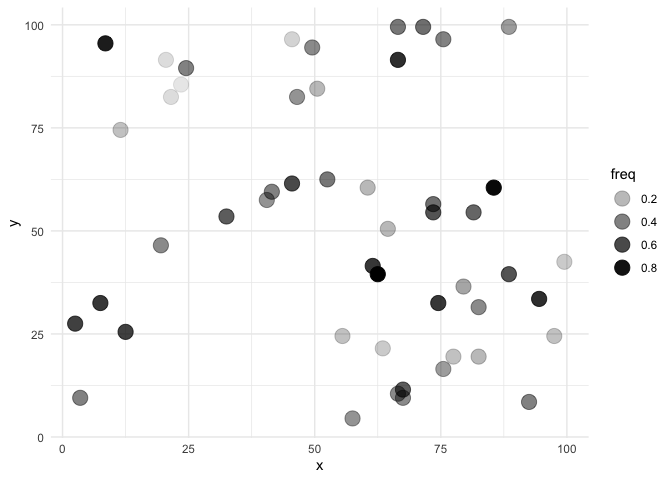
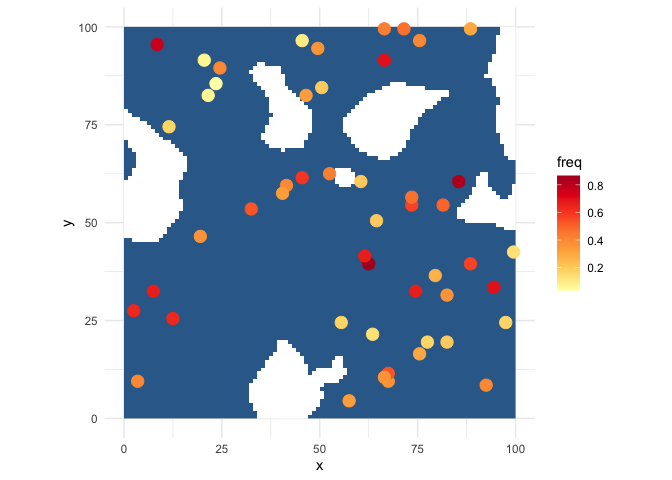
fix github mathjax issues; update plotting

diff --git a/README.md b/README.md
@@ -23,53 +23,67 @@ genetic resistance.
 The following model is used to simulate a synthetic dataset for model
 testing, and will be implemented as a Bayesian statsitical model to
 estimate parameters and predict the prevalence of resistance markers and
-phenotypes in \$P.falciparum\* parasites sampled from malaria cases.
+phenotypes in *P. falciparum* parasites sampled from malaria cases.
 
-The number of failed treatments $F_{i}$ in spatial location (pixel) $i$
-is Binomial, with number of attempted treatments $T_{i}$, and per-case
-probability (frequency) of treatment failure $P^{TF}_i$:
+The number of failed treatments $`F_{i}`$ in spatial location (pixel)
+$i$ is Binomial, with number of attempted treatments $`T_{i}`$, and
+per-case probability (frequency) of treatment failure
+$`P_i^\mathrm{TF}`$:
 
-$$
-F_{i} \sim Binomial(T_{i}, P^\text{TF}_i)
-$$ The overall probability of treatment failure is calculated from the
+``` math
+F_{i} \sim \mathrm{Binomial}(T_{i}, P_i^\mathrm{TF})
+```
+
+The overall probability of treatment failure is calculated from the
 individual (ie. conditionally-independent) probabilities of failure due
 to each of $S$ different resistance markers (SNPs) $s$, computed as the
-product of the probability of treatment failure $q^{TF}_{i,s}$ *if* SNP
-$s$ if present, multiplied by the probability (frequency)
-$P^{SNP}_{i,s}$ that SNP $s$ is present in a randomly sampled parasite
-in pixel $i$ :
+product of the probability of treatment failure $`q_{i,s}`$ if SNP $s$
+if present, multiplied by the probability (frequency)
+$`P_{i,s}^\mathrm{SNP}`$ that SNP $s$ is present in a randomly sampled
+parasite in pixel $i$ :
 
-$$
-P^\text{TF}_i = 1- \prod_{s=1}^S{1 - q^\text{TF}_{i,s} P^\text{SNP}_{i,s}}
-$$ We additionally model observations of the number of samples positive
-for each of these SNPs $\text{SNP}^{+}_{i,s}$ at each pixel $i$ via a
+``` math
+P_i^\mathrm{TF} = 1 - \prod_{s=1}^S{1 - q_{i,s} P_{i,s}^\mathrm{SNP}}
+```
+
+We additionally model observations of the number of samples positive for
+each of these SNPs $`\mathrm{SNP}_{i,s}^{+}`$ at each pixel $i$ via a
 Binomial likelihood of the number of samples tested for this SNP
-$\text{SNP}_{i,s}$ and the population frequency $P^\text{SNP}_{i,s}$ of
-the SNP in pixel $i$ : $$
-\text{SNP}^{+}_{i,s} \sim Binomial(\text{SNP}_{i,s}, P^\text{SNP}_{i,s})
-$$ The frequencies of the vector of SNPs $P^\text{SNP}_{i}$ at each
+$`\mathrm{SNP}_{i,s}`$ and the population frequency
+$`P_{i,s}^\mathrm{SNP}`$ of the SNP in pixel $i$:
+
+``` math
+\mathrm{SNP}_{i,s}^{+} \sim \mathrm{Binomial}(\mathrm{SNP}_{i,s} P_{i,s}^\mathrm{SNP})
+```
+
+The frequencies of the vector of SNPs $`P_{i}^\mathrm{SNP}`$ at each
 pixel $i$ is jointly modelled as the outcome of a random-slopes, latent
 factor model-based geostatistical model with logit link function:
 
-$$
-\text{logit}(P^\text{SNP}_{i,s}) = \mathbf{X}_i \beta_s + \sum_{l=1}^{L}\Lambda_{s,l} \epsilon_{i,l} \\
-\beta_{s,k} \sim N(\mu_k, \sigma^{2}_k)
-$$ where $\mathbf{X}$ is a design matrix of $K$ observed spatial
-covariates of SNP frequencies (including a dummy column for an intercept
-term), with the vector $\mathbf{X}_i$ representing the covariates values
-at location (pixel) $i$, and $\beta_s$ is corresponding vector of $K$
+``` math
+\mathrm{logit}(P_{i,s}^\mathrm{SNP}) = \mathbf{X}_i \beta_s + \sum_{l=1}^{L}\Lambda_{s,l} \epsilon_{i,l}
+```
+
+``` math
+\beta_{s,k} \sim \mathrm{N}(\mu_k, \sigma_k^{2})
+```
+
+where $\mathbf{X}$ is a design matrix of $K$ observed spatial covariates
+of SNP frequencies (including a dummy column for an intercept term),
+with the vector $`\mathbf{X}_i`$ representing the covariates values at
+location (pixel) $i$, and $`\beta_s`$ is the corresponding vector of $K$
 regression coefficients for SNP $s$, each element $k$ of which is drawn
 from a hierarchical distribution (random slopes model), with average
-coefficient across all SNPs $\mu_k$, and between-SNP variance
-$\sigma^{2}_k$. This enables us to capture the similar-but-different
+coefficient across all SNPs $`\mu_k`$, and between-SNP variance
+$`\sigma_k^{2}`$. This enables us to capture the similar-but-different
 relationships between the spatial covariates and each SNPs.
 
 In addition to these covariate effects, additional spatial structure is
-modelled via $L$ vectors of latent spatial factors $\epsilon_l$, each
-SNP $s$ having loading coefficients $\Lambda_{s,l}$ against each one of
-these latent factor $l$. By setting $L<S$, this latent factor modelling
-approach enables us to parsimoniously model each SNP as having a
-separate spatial random effect, but with correlation between the
+modelled via $L$ vectors of latent spatial factors $`\epsilon_l`$, each
+SNP $s$ having loading coefficients $`\Lambda_{s,l}`$ against each one
+of these latent factor $l$. By setting $L \lt S$, this latent factor
+modelling approach enables us to parsimoniously model each SNP as having
+a separate spatial random effect, but with correlation between the
 residual spatial patterns of each SNP, reflecting their shared
 (unobserved) drivers. The number of latent factors $L$ is a modelling
 choice that can be determined by model criticism; by determining how
@@ -80,9 +94,9 @@ Finally, we model each of the spatial latent factors as an independent
 zero-mean Gaussian spatial process, with covariance matrix $K$, shared
 across all spatial latent factors:
 
-$$
-\epsilon_{s} \sim \text{GP}(\mathbf{0}, K)
-$$
+``` math
+\epsilon_{s} \sim \mathrm{GP}(\mathbf{0}, K)
+```
 
 ## Covariates
 
@@ -115,9 +129,9 @@ prior and posterior predictive checks.
 
 A number of options are available to construct a prior over the
 probability of treatment failure, conditional on SNP presence
-$q^\text{TF}_{i,s}$, and these depend on the level of pre-filtering of
-relevant SNPs to model, and the availability of external information to
-inform the model.
+$`q_{i,s}`$, and these depend on the level of pre-filtering of relevant
+SNPs to model, and the availability of external information to inform
+the model.
 
 #### GWAS prior
 
@@ -168,8 +182,8 @@ of marker frequencies. We account and correct for this bias by
 simultaneously fitting to both spatial SNP and treatment failure
 datasets. The equation relating SNP frequencies to treatment failure
 probabilities ensures that low frequencies of treatment failure indicate
-low frequencies of resistance markers (when $P^\text{SNP}_{i,s}$ are
-close to zero, $P^\text{TF}_i$ must be close to zero), informing the
+low frequencies of resistance markers (when $`P_{i,s}^\mathrm{SNP}`$ are
+close to zero, $`P_i^\mathrm{TF}`$ must be close to zero), informing the
 model of these low-frequency regions and correcting the bias.
 
 We currently assume that the spatial locations of treatment failure data
@@ -184,7 +198,7 @@ sampling model (after Diggle) to correct for this bias, by additionally
 modelling the spatial locations of treatment failure data as an
 inhomogenous Poisson point process, with intensity modelled as a
 monotonic increasing function of the modeled failure rate
-$P^\text{TF}_i$. This preferential sampling model would therefore
+$`P_i^\mathrm{TF}`$. This preferential sampling model would therefore
 interpret areas with fewer treatment failure datapoints as likely to
 have a lower probability of treatment failure; an assumption that may or
 may not reasonable.
@@ -194,29 +208,17 @@ may not reasonable.
 Simulate and plot some synthetic data
 
 ``` r
+. <- lapply(list.files("R", full.names = TRUE), source)
+set.seed(2024-04-26)
+```
+
+``` r
 library(tidyverse)
-#> Warning: package 'ggplot2' was built under R version 4.2.3
-#> Warning: package 'tidyr' was built under R version 4.2.3
-#> Warning: package 'dplyr' was built under R version 4.2.3
-#> ── Attaching core tidyverse packages ──────────────────────── tidyverse 2.0.0 ──
-#> ✔ dplyr     1.1.4     ✔ readr     2.1.4
-#> ✔ forcats   1.0.0     ✔ stringr   1.5.0
-#> ✔ ggplot2   3.5.0     ✔ tibble    3.2.1
-#> ✔ lubridate 1.9.2     ✔ tidyr     1.3.1
-#> ✔ purrr     1.0.2     
-#> ── Conflicts ────────────────────────────────────────── tidyverse_conflicts() ──
-#> ✖ dplyr::filter() masks stats::filter()
-#> ✖ dplyr::lag()    masks stats::lag()
-#> ℹ Use the conflicted package (<http://conflicted.r-lib.org/>) to force all conflicts to become errors
 library(terra)
-#> Warning: package 'terra' was built under R version 4.2.3
-#> terra 1.7.71
-#> 
-#> Attaching package: 'terra'
-#> 
-#> The following object is masked from 'package:tidyr':
-#> 
-#>     extract
+library(tidyterra)
+```
+
+``` r
 sims <- sim_dataset()
 #> ℹ Initialising python and checking dependencies, this may take a moment.✔ Initialising python and checking dependencies ... done!               
 
@@ -235,11 +237,19 @@ sims$data$tf_data %>%
     aes(
       x = x,
       y = y,
-      alpha = freq,
+      colour = freq,
     )
   ) +
-  geom_point(size = 5) +
-  theme_minimal()
+  geom_spatraster(
+    data = sims$data$covariates$PfPR * 0
+  ) +
+  scale_fill_continuous(na.value = "white",
+                        guide = "none") +
+  geom_point(size = 4) +
+  scale_colour_distiller(palette = "YlOrRd",
+                         direction = 1) +
+  theme_minimal() +
+  theme(aspect.ratio = 1)
 ```
 
 ![](README_files/figure-gfm/sim-dataset-2.png)<!-- -->
@@ -253,15 +263,21 @@ sims$data$snp_data %>%
     aes(
       x = x,
       y = y,
-      alpha = freq,
+      colour = freq,
       group = snp
     )
   ) +
-  geom_point(
-    size = 2
+    geom_spatraster(
+    data = sims$data$covariates$PfPR * 0
   ) +
+  scale_fill_continuous(na.value = "white",
+                        guide = "none") +
+  geom_point() +
+  scale_colour_distiller(palette = "YlOrRd",
+                         direction = 1) +
   facet_wrap(~snp) +
-  theme_minimal()
+  theme_minimal() +
+  theme(aspect.ratio = 1)
 ```
 
 ![](README_files/figure-gfm/sim-dataset-3.png)<!-- -->
@@ -269,25 +285,7 @@ sims$data$snp_data %>%
 ``` r
 # fit the model to these data with greta
 library(greta)
-#> 
-#> Attaching package: 'greta'
-#> The following object is masked from 'package:dplyr':
-#> 
-#>     slice
-#> The following objects are masked from 'package:stats':
-#> 
-#>     binomial, cov2cor, poisson
-#> The following objects are masked from 'package:base':
-#> 
-#>     %*%, apply, backsolve, beta, chol2inv, colMeans, colSums, diag,
-#>     eigen, forwardsolve, gamma, identity, rowMeans, rowSums, sweep,
-#>     tapply
 library(greta.gp)
-#> 
-#> Attaching package: 'greta.gp'
-#> The following object is masked from 'package:terra':
-#> 
-#>     project
 
 # get data and dimensions
 covariates <- sims$data$covariates
@@ -354,10 +352,6 @@ q <- parameters$q
 beta <- parameters$beta
 m <- model(kernel_lengthscale, kernel_sd, q, beta)
 draws <- mcmc(m)
-#> running 4 chains simultaneously on up to 8 CPU cores
-#> 
-#>     warmup                                           0/1000 | eta:  ?s              warmup ==                                       50/1000 | eta:  1m              warmup ====                                    100/1000 | eta:  1m              warmup ======                                  150/1000 | eta: 40s              warmup ========                                200/1000 | eta: 34s              warmup ==========                              250/1000 | eta: 29s              warmup ===========                             300/1000 | eta: 26s              warmup =============                           350/1000 | eta: 23s              warmup ===============                         400/1000 | eta: 20s              warmup =================                       450/1000 | eta: 18s | <1% bad    warmup ===================                     500/1000 | eta: 16s | <1% bad    warmup =====================                   550/1000 | eta: 14s | <1% bad    warmup =======================                 600/1000 | eta: 13s | <1% bad    warmup =========================               650/1000 | eta: 11s | <1% bad    warmup ===========================             700/1000 | eta:  9s | <1% bad    warmup ============================            750/1000 | eta:  8s | <1% bad    warmup ==============================          800/1000 | eta:  6s | <1% bad    warmup ================================        850/1000 | eta:  5s | <1% bad    warmup ==================================      900/1000 | eta:  3s | <1% bad    warmup ====================================    950/1000 | eta:  1s | <1% bad    warmup ====================================== 1000/1000 | eta:  0s | <1% bad
-#>   sampling                                           0/1000 | eta:  ?s            sampling ==                                       50/1000 | eta: 18s            sampling ====                                    100/1000 | eta: 19s            sampling ======                                  150/1000 | eta: 23s            sampling ========                                200/1000 | eta: 22s            sampling ==========                              250/1000 | eta: 20s            sampling ===========                             300/1000 | eta: 19s            sampling =============                           350/1000 | eta: 17s            sampling ===============                         400/1000 | eta: 17s            sampling =================                       450/1000 | eta: 15s            sampling ===================                     500/1000 | eta: 13s            sampling =====================                   550/1000 | eta: 12s            sampling =======================                 600/1000 | eta: 10s            sampling =========================               650/1000 | eta:  9s            sampling ===========================             700/1000 | eta:  8s            sampling ============================            750/1000 | eta:  7s            sampling ==============================          800/1000 | eta:  5s            sampling ================================        850/1000 | eta:  4s            sampling ==================================      900/1000 | eta:  3s            sampling ====================================    950/1000 | eta:  1s            sampling ====================================== 1000/1000 | eta:  0s
 
 # check convergence is not too horrible
 r_hats <- coda::gelman.diag(draws,
